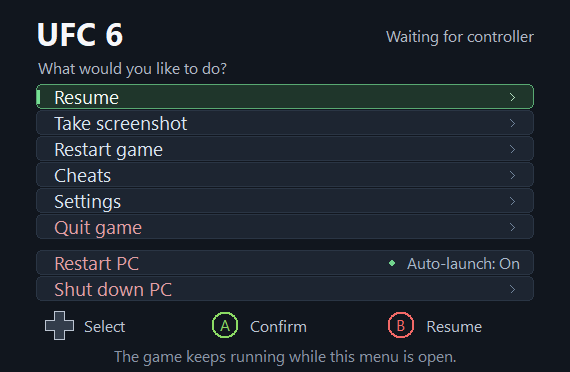
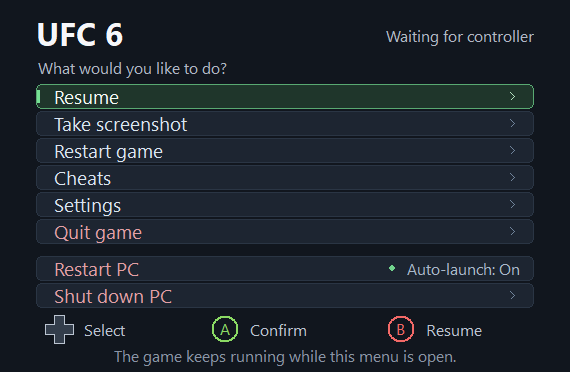
Match row spacing and refresh Main, Settings, and Cheats game captures

diff --git a/src/quit_menu.c b/src/quit_menu.c
@@ -416,8 +416,8 @@ static void value_chip(HDC dc,RECT row,const wchar_t *label,int selected,int adj
     if(adjustable){arrow_mark(dc,box.left+10,y,-1,RGB(144,170,154));arrow_mark(dc,box.right-10,y,1,RGB(144,170,154));}
 }
 static void row_geometry(int page,int index,int *top,int *height) {
-    *top=page==PAGE_CHEATS?84+32*index+(index>=2?24:0):page==PAGE_MAIN?84+26*index+(index>=MAIN_REBOOT?10:0):page==PAGE_SETTINGS?86+31*index:(page==PAGE_SCREENSHOT||page==PAGE_RESET||page==PAGE_CAREER_ADD||page==PAGE_GAME_ICONS_CONFIRM)?182+48*index:100+56*index;
-    *height=page==PAGE_CHEATS?30:page==PAGE_MAIN?26:page==PAGE_SETTINGS?30:(page==PAGE_SCREENSHOT||page==PAGE_RESET||page==PAGE_CAREER_ADD||page==PAGE_GAME_ICONS_CONFIRM)?42:50;
+    *top=page==PAGE_CHEATS?84+32*index+(index>=2?24:0):page==PAGE_MAIN?84+27*index+(index>=MAIN_REBOOT?10:0):page==PAGE_SETTINGS?86+32*index:(page==PAGE_SCREENSHOT||page==PAGE_RESET||page==PAGE_CAREER_ADD||page==PAGE_GAME_ICONS_CONFIRM)?182+48*index:100+56*index;
+    *height=page==PAGE_CHEATS?30:page==PAGE_MAIN?25:page==PAGE_SETTINGS?30:(page==PAGE_SCREENSHOT||page==PAGE_RESET||page==PAGE_CAREER_ADD||page==PAGE_GAME_ICONS_CONFIRM)?42:50;
 }
 static void draw_menu(HDC dc, RECT r) {
     HBRUSH bg = CreateSolidBrush(RGB(17, 22, 30));
@@ -462,7 +462,7 @@ static void draw_menu(HDC dc, RECT r) {
         RECT row={36,top,r.right-36,top+height};
         int focused=i==selection;
         int danger=(state.page==PAGE_MAIN&&(i==MAIN_QUIT||i==MAIN_REBOOT||i==MAIN_SHUTDOWN))||(menu_power_page(&state)&&i==1);
-        RECT surface=row;if(state.page==PAGE_MAIN)--surface.bottom;
+        RECT surface=row;
         rounded_box(dc,surface,10,focused?(danger?RGB(54,35,41):RGB(31,54,43)):RGB(29,37,49),focused?(danger?RGB(173,98,106):RGB(89,169,114)):RGB(42,53,68));
         if(focused){RECT accent={37,top+6,40,top+height-6};HBRUSH mark=CreateSolidBrush(danger?RGB(245,143,150):RGB(118,224,148));FillRect(dc,&accent,mark);DeleteObject(mark);}
         COLORREF color=focused?RGB(244,250,246):danger?RGB(227,159,165):RGB(218,228,240);
@@ -539,7 +539,7 @@ static void draw_menu(HDC dc, RECT r) {
         wchar_t countdown[40];swprintf(countdown,40,L"%d seconds",state.shutdown_seconds);
         RECT number={36,187,r.right-36,239};text(dc,font_title,countdown,number,RGB(246,247,250),DT_CENTER|DT_SINGLELINE);
     }
-    int y=state.page==PAGE_MAIN?310:279;
+    int y=state.page==PAGE_MAIN?314:279;
     if(conflict){
         wchar_t chord[100],fallback[150];shortcut_label(menu_shortcut(&state),ps,chord,100);
         swprintf(fallback,150,L"Fallback: %ls  |  F10",chord);

diff --git a/RELEASE-NOTES.md b/RELEASE-NOTES.md
@@ -6,7 +6,7 @@ Adds Player 1 cheats, career additions, integrated controller-icon patching, and
 - **Career cheats** adds selectable amounts of money or skill points to the loaded offline career, once per confirmation. Current balances are shown. Keep a save backup before experimenting; changes use the game's normal saving.
 - **Settings > Patch in-game controller icons...** changes Xbox/PlayStation game artwork separately from **Overlay button icons**. It checks the supported game build and all edited ranges, keeps a verified local restore backup, then applies after normal game/launcher shutdown and relaunches with saved settings. No game artwork is bundled.
 - Fixes repeated icon switches after restart by isolating each packaged helper's Python runtime and clearing its temporary state before launching the game.
-- Refreshes the UI with pill switches, compact value selectors, rounded rows, subtle focus outlines, and distinct quit/power styling. Fixes clipped text at different UI scales.
+- Refreshes the UI with pill switches, compact value selectors, rounded rows, subtle focus outlines, and distinct quit/power styling. Fixes clipped text at different UI scales and uses the same two-pixel row gaps on Main, Settings, and Cheats.
 - Restart PC's auto-launch indication is now inline text and a status dot, keeping it clear of the row borders. The confirmation also states whether auto-launch is enabled and where to change it.
 - Adds updated screenshots, including Cheats and the controller-icon patch page.
 

diff --git a/README.md b/README.md
@@ -49,7 +49,7 @@ Install into the same `bin` folder, then launch with PORTHEON's Parsec option en
   </tr>
 </table>
 
-[Screenshot result](docs/screenshots/screenshot-saved.png) · [Reset confirmation](docs/screenshots/reset-confirmation.png) · [Controller access](docs/screenshots/controller-access.png) · [Game Bar conflict warning](docs/screenshots/gamebar-conflict.png) · [Settings over the actual game menu](docs/screenshots/settings-in-game.png) · [Windows setup window](docs/screenshots/setup.png)
+[Cheats over the game](docs/screenshots/cheats-in-game.png) · [Screenshot result](docs/screenshots/screenshot-saved.png) · [Reset confirmation](docs/screenshots/reset-confirmation.png) · [Controller access](docs/screenshots/controller-access.png) · [Game Bar conflict warning](docs/screenshots/gamebar-conflict.png) · [Settings over the actual game menu](docs/screenshots/settings-in-game.png) · [Windows setup window](docs/screenshots/setup.png)
 
 The game-background images are real game-window captures. The isolated page images come from the same overlay renderer in a test host with power actions disabled.
 
